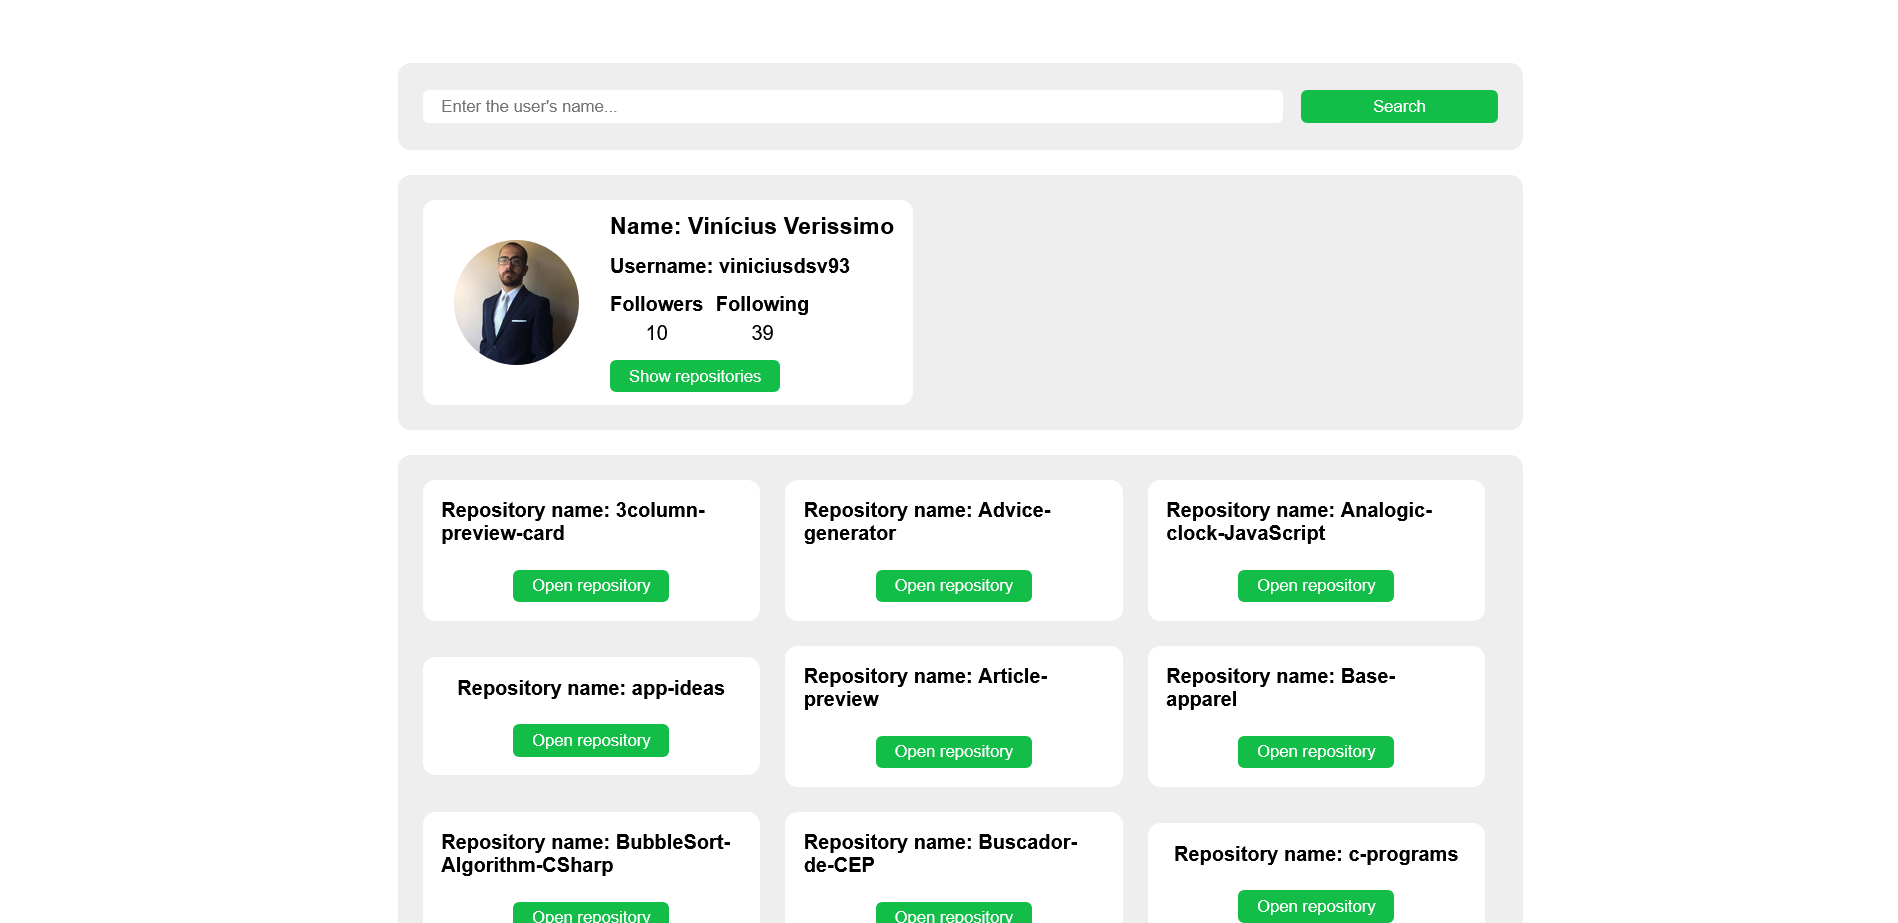
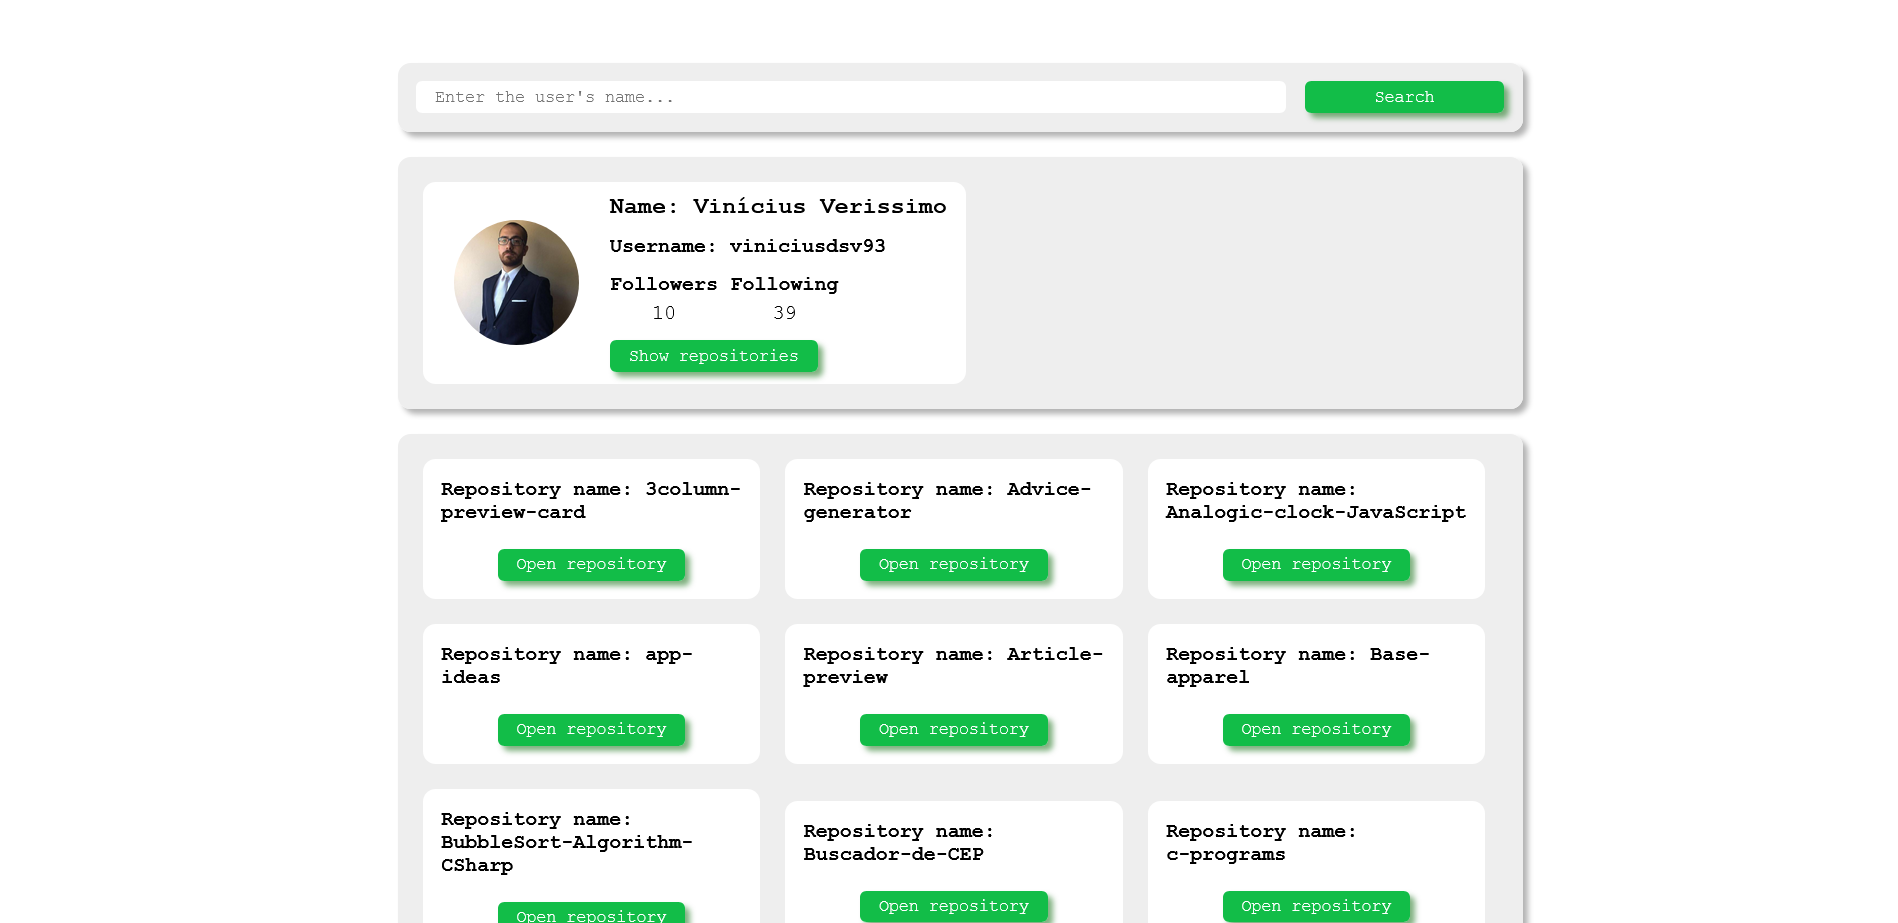
Corrected responsivity

diff --git a/src/components/header/styled.js b/src/components/header/styled.js
@@ -3,13 +3,18 @@ import styled from "styled-components";
 export const HeaderDiv = styled.div`
 	background-color: #eee;
 	border-radius: 10px;
-	height: 70px;
+	height: auto;
 	width: 100%;
 	display: flex;
 	justify-content: space-between;
 	align-items: center;
 	gap: 15px;
-	padding: 10px 20px;
+	padding: 15px;
+	box-shadow: 4px 4px 4px rgba(0, 0, 0, 0.3);
+
+	@media (max-width: 500px) {
+		flex-direction: column;
+	}
 `;
 
 export const Input = styled.input`

diff --git a/src/components/profileCard/styled.js b/src/components/profileCard/styled.js
@@ -9,6 +9,7 @@ export const ProfileCardDiv = styled.div`
 	justify-content: flex-start;
 	align-items: center;
 	padding: 20px;
+	box-shadow: 4px 4px 4px rgba(0, 0, 0, 0.3);
 `;
 
 export const ProfileCardData = styled.div`
@@ -19,6 +20,10 @@ export const ProfileCardData = styled.div`
 	align-items: center;
 	padding: 0px 15px;
 	gap: 15px;
+
+	@media (max-width: 500px) {
+		flex-direction: column;
+	}
 `;
 
 export const ProfileAvatar = styled.img`

diff --git a/src/components/global/resetCSS.js b/src/components/global/resetCSS.js
@@ -6,7 +6,7 @@ export const ResetCSS = createGlobalStyle`
     padding: 0;
     box-sizing: border-box;
     text-decoration: none;
-    font-family: sans-serif;
+    font-family: 'Courier New', Courier, monospace;
 }
 
 body {

diff --git a/src/components/button/styled.js b/src/components/button/styled.js
@@ -8,6 +8,8 @@ export const Button = styled.button`
 	flex: 1;
 	padding: 5px 15px;
 	cursor: pointer;
+	box-shadow: 4px 4px 4px rgba(0, 100, 0, 0.5);
+
 	&:hover {
 		opacity: 0.7;
 	}

diff --git a/src/App.js b/src/App.js
@@ -5,10 +5,7 @@ function App() {
 	return (
 		<main>
 			<ResetCSS />
-			<Layout>
-				<div>User</div>
-				<div>Repos</div>
-			</Layout>
+			<Layout />
 		</main>
 	);
 }

diff --git a/src/components/reposCard/styled.js b/src/components/reposCard/styled.js
@@ -11,4 +11,5 @@ export const ReposDiv = styled.div`
 	flex-wrap: wrap;
 	gap: 20px;
 	padding: 20px;
+	box-shadow: 4px 4px 4px rgba(0, 0, 0, 0.3);
 `;
